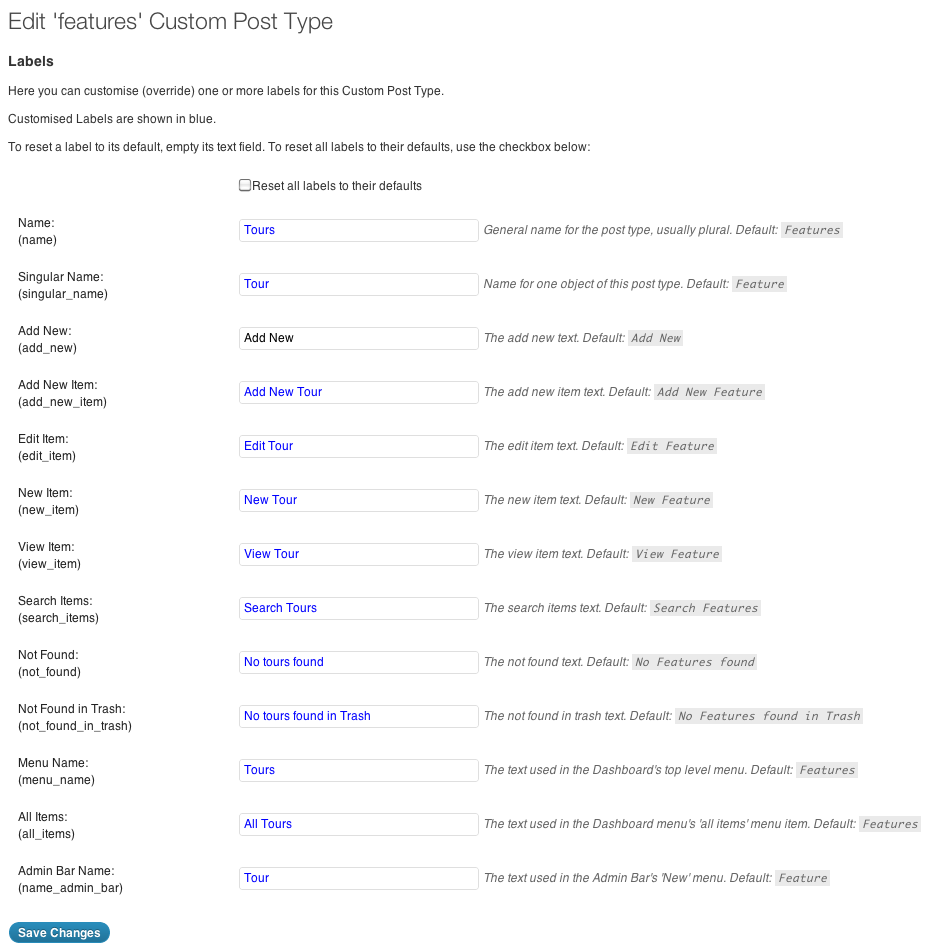
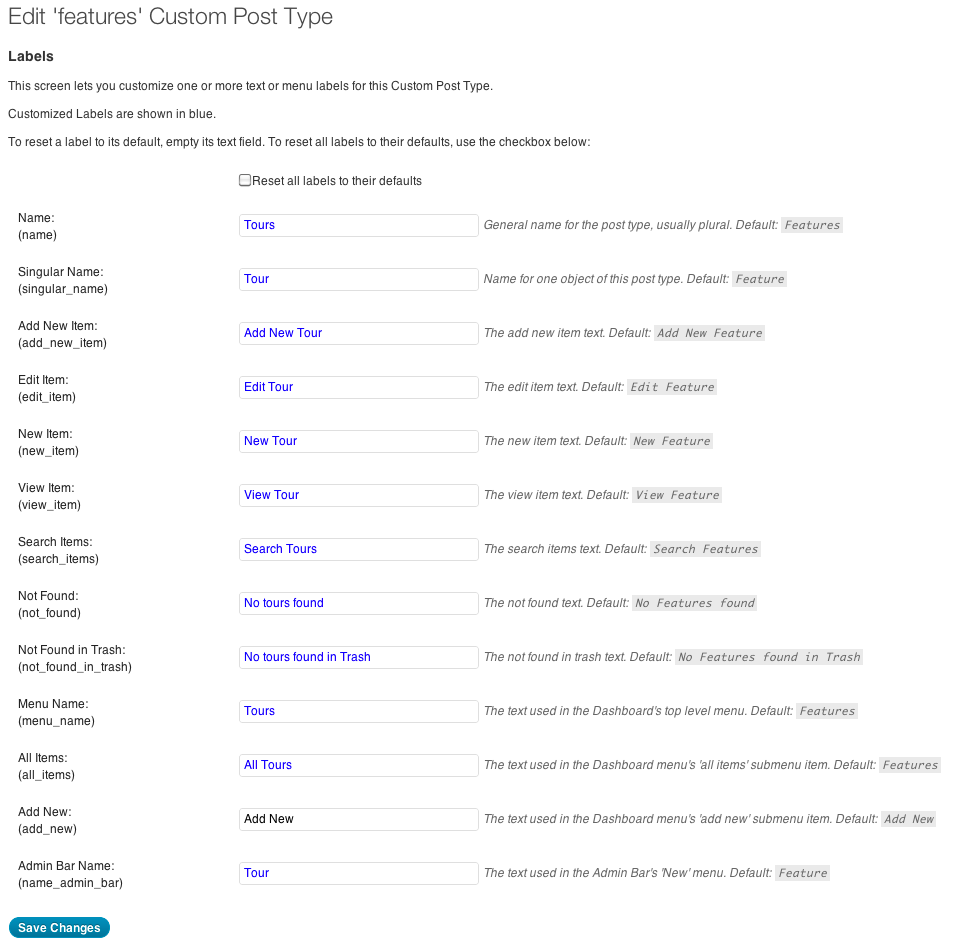
Version 1.0.2
Updated screenshots, updated POT file, updated documentation/readme.

diff --git a/cpt-editor.php b/cpt-editor.php
@@ -3,7 +3,7 @@
 Plugin Name: Custom Post Type Editor
 Plugin URI: http://om4.com.au/wordpress-plugins/custom-post-type-editor/
 Description: Customize the text labels or menu names for any registered custom post type using a simple Dashboard user interface.
-Version: 1.0.2-dev
+Version: 1.0.2
 Author: OM4
 Author URI: http://om4.com.au/
 Text Domain: om4-cpt-editor
